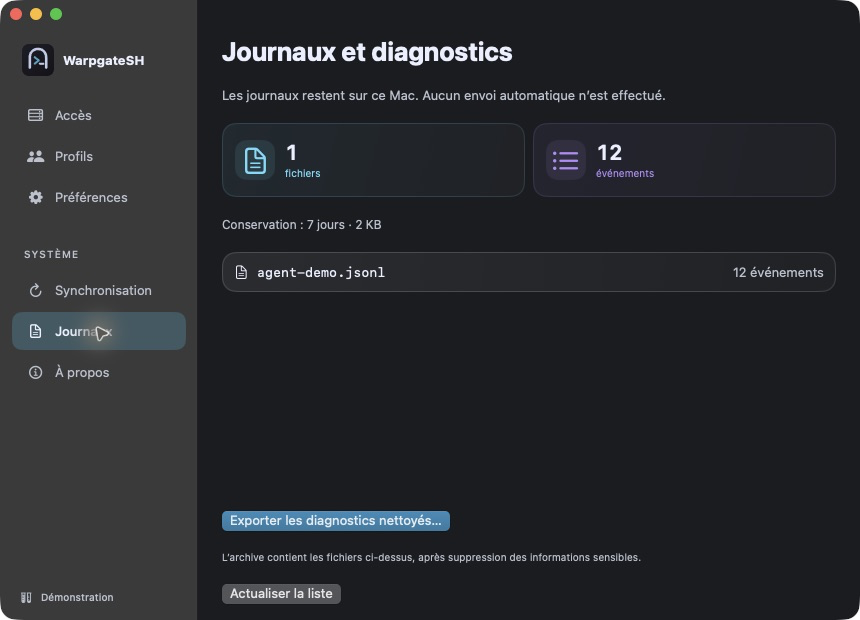
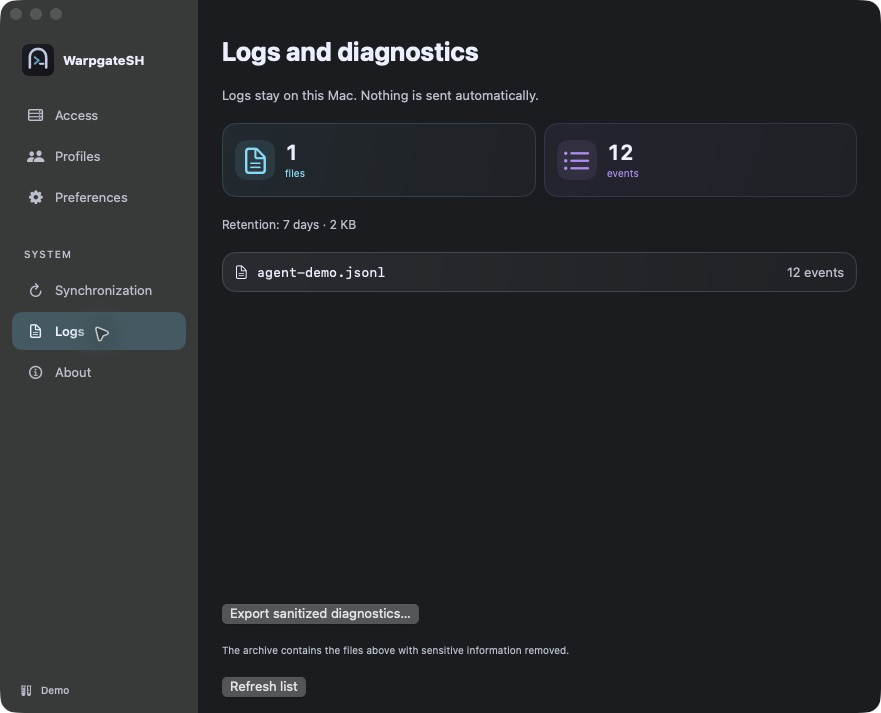
chore: prepare v0.1.19 with refreshed English screenshots and guides

diff --git a/apps/warpgatesh-site/public/index.html b/apps/warpgatesh-site/public/index.html
@@ -177,15 +177,15 @@
           <p class="fine">
             Close the window. The background agent keeps working.
           </p>
-          <p class="preview-note">The native SwiftUI companion is included in v0.1.18 and later.</p>
+          <p class="preview-note">The native SwiftUI companion is included in v0.1.18 and later. Version 0.1.19 adds languages, themes and desktop notifications.</p>
           <a class="inline-link" href="docs/desktop-app.html">Explore the native companion <span aria-hidden="true">→</span></a>
         </div>
         <figure class="companion-figure">
           <a class="screenshot-link" href="assets/swiftui/access.png" aria-label="View the full SwiftUI Access screenshot">
-            <img class="app-screenshot" src="assets/swiftui/access.png" width="860" height="620" loading="lazy" alt="Running WarpgateSH SwiftUI app with sidebar, synchronization cards, search and fictional SSH targets" />
+            <img class="app-screenshot" src="assets/swiftui/access.png" width="881" height="713" loading="lazy" alt="Running WarpgateSH SwiftUI app with sidebar, synchronization cards, search and fictional SSH targets" />
           </a>
           <figcaption class="fine">
-            WarpgateSH v0.1.18 · Running app, fictional demo data.<br />
+            WarpgateSH v0.1.19 · Running app, fictional demo data.<br />
             Native SwiftUI interface for macOS 13 and later.
           </figcaption>
         </figure>
@@ -193,27 +193,35 @@
       <section class="screenshot-section wrap" aria-labelledby="screenshots-title">
         <p class="eyebrow">Inside the native companion</p>
         <h2 id="screenshots-title">A place for every<br />everyday action.</h2>
-        <p class="screenshot-intro">Actual captures from the running macOS app in demo mode. All data is fictional; labels are currently in French. Select an image to view it at full size.</p>
+        <p class="screenshot-intro">Actual captures from the running macOS app in demo mode. All data is fictional; the interface supports English and French. Select an image to view it at full size.</p>
         <div class="screenshot-grid">
           <figure>
-            <a class="screenshot-link" href="assets/swiftui/profiles.png" aria-label="View the full Profiles screenshot"><img class="app-screenshot" src="assets/swiftui/profiles.png" width="860" height="620" loading="lazy" alt="WarpgateSH SwiftUI Profiles screen, captured in demo mode with fictional data" /></a>
+            <a class="screenshot-link" href="assets/swiftui/profiles.png" aria-label="View the full Profiles screenshot"><img class="app-screenshot" src="assets/swiftui/profiles.png" width="881" height="713" loading="lazy" alt="WarpgateSH SwiftUI Profiles screen, captured in demo mode with fictional data" /></a>
             <figcaption><h3>Profiles</h3><p>Enroll a profile, verify SSH fingerprints and manage personal access.</p></figcaption>
           </figure>
           <figure>
-            <a class="screenshot-link" href="assets/swiftui/preferences.png" aria-label="View the full Preferences screenshot"><img class="app-screenshot" src="assets/swiftui/preferences.png" width="860" height="620" loading="lazy" alt="WarpgateSH SwiftUI Preferences screen, captured in demo mode with fictional data" /></a>
-            <figcaption><h3>Preferences</h3><p>Choose the sync interval, default profile and terminal integration.</p></figcaption>
+            <a class="screenshot-link" href="assets/swiftui/preferences.png" aria-label="View the full Preferences screenshot"><img class="app-screenshot" src="assets/swiftui/preferences.png" width="881" height="713" loading="lazy" alt="WarpgateSH SwiftUI Preferences screen, captured in demo mode with fictional data" /></a>
+            <figcaption><h3>Preferences</h3><p>Choose your language, appearance and desktop notifications.</p></figcaption>
           </figure>
           <figure>
-            <a class="screenshot-link" href="assets/swiftui/synchronization.png" aria-label="View the full Synchronization screenshot"><img class="app-screenshot" src="assets/swiftui/synchronization.png" width="860" height="620" loading="lazy" alt="WarpgateSH SwiftUI Synchronization screen, captured in demo mode with fictional data" /></a>
+            <a class="screenshot-link" href="assets/swiftui/synchronization.png" aria-label="View the full Synchronization screenshot"><img class="app-screenshot" src="assets/swiftui/synchronization.png" width="881" height="713" loading="lazy" alt="WarpgateSH SwiftUI Synchronization screen, captured in demo mode with fictional data" /></a>
             <figcaption><h3>Synchronization</h3><p>Inspect the agent, the last snapshot and synchronization alerts.</p></figcaption>
           </figure>
           <figure>
-            <a class="screenshot-link" href="assets/swiftui/logs.png" aria-label="View the full Logs and diagnostics screenshot"><img class="app-screenshot" src="assets/swiftui/logs.png" width="860" height="620" loading="lazy" alt="WarpgateSH SwiftUI Logs and diagnostics screen, captured in demo mode with fictional data" /></a>
+            <a class="screenshot-link" href="assets/swiftui/logs.png" aria-label="View the full Logs and diagnostics screenshot"><img class="app-screenshot" src="assets/swiftui/logs.png" width="881" height="713" loading="lazy" alt="WarpgateSH SwiftUI Logs and diagnostics screen, captured in demo mode with fictional data" /></a>
             <figcaption><h3>Logs and diagnostics</h3><p>Review local files before exporting sanitized diagnostics.</p></figcaption>
           </figure>
           <figure>
-            <a class="screenshot-link" href="assets/swiftui/about.png" aria-label="View the full About and updates screenshot"><img class="app-screenshot" src="assets/swiftui/about.png" width="860" height="620" loading="lazy" alt="WarpgateSH SwiftUI About and updates screen, captured in demo mode with fictional data" /></a>
+            <a class="screenshot-link" href="assets/swiftui/about.png" aria-label="View the full About and updates screenshot"><img class="app-screenshot" src="assets/swiftui/about.png" width="881" height="713" loading="lazy" alt="WarpgateSH SwiftUI About and updates screen, captured in demo mode with fictional data" /></a>
             <figcaption><h3>About and updates</h3><p>Check versions and apply signed updates after confirmation.</p></figcaption>
+          </figure>
+          <figure>
+            <a class="screenshot-link" href="assets/swiftui/preferences-light.png" aria-label="View the light appearance"><img class="app-screenshot" src="assets/swiftui/preferences-light.png" width="881" height="713" loading="lazy" alt="Light appearance of WarpgateSH v0.1.19, real app in demo mode" /></a>
+            <figcaption><h3>Light appearance</h3><p>Choose a theme or follow the appearance of macOS.</p></figcaption>
+          </figure>
+          <figure>
+            <a class="screenshot-link" href="assets/swiftui/preferences-black.png" aria-label="View the black appearance"><img class="app-screenshot" src="assets/swiftui/preferences-black.png" width="881" height="713" loading="lazy" alt="Black appearance of WarpgateSH v0.1.19, real app in demo mode" /></a>
+            <figcaption><h3>Black appearance</h3><p>Choose a theme or follow the appearance of macOS.</p></figcaption>
           </figure>
         </div>
       </section>

diff --git a/apps/warpgatesh-macos/Sources/WarpgateSH/Models/SyncAge.swift b/apps/warpgatesh-macos/Sources/WarpgateSH/Models/SyncAge.swift
@@ -1,11 +1,18 @@
 import Foundation
 
 enum SyncAge {
-  static func label(_ seconds: UInt64?) -> String {
-    guard let seconds else { return L10n.text("Jamais") }
-    if seconds < 60 { return L10n.text("À l’instant") }
-    if seconds < 3600 { return L10n.text("Il y a %llu min", seconds / 60) }
-    if seconds < 86400 { return L10n.text("Il y a %llu h", seconds / 3600) }
-    return L10n.text("Il y a %llu j", seconds / 86400)
+  static func label(_ seconds: UInt64?, language: DisplayLanguage = L10n.language) -> String {
+    func text(_ key: String, _ arguments: CVarArg...) -> String {
+      let translated = L10n.translation(key, language: language)
+      return arguments.isEmpty
+        ? translated
+        : String(
+          format: translated, locale: Locale(identifier: language.code), arguments: arguments)
+    }
+    guard let seconds else { return text("Jamais") }
+    if seconds < 60 { return text("À l’instant") }
+    if seconds < 3600 { return text("Il y a %llu min", seconds / 60) }
+    if seconds < 86400 { return text("Il y a %llu h", seconds / 3600) }
+    return text("Il y a %llu j", seconds / 86400)
   }
 }

diff --git a/apps/warpgatesh-macos/Sources/WarpgateSH/Bridge/DemoBridge.swift b/apps/warpgatesh-macos/Sources/WarpgateSH/Bridge/DemoBridge.swift
@@ -18,7 +18,7 @@ final class DemoBridge: CompanionTransport {
     preferences: .init(
       syncIntervalSeconds: 300, launchCompanionAtLogin: false, defaultProfile: "homelab"),
     terminalIntegration: .init(status: "missing", path: "/usr/local/bin/warpgatesh"),
-    update: .init(phase: "idle", channel: "unsupported", currentVersion: "0.1.18"), alerts: [])
+    update: .init(phase: "idle", channel: "unsupported", currentVersion: "0.1.19"), alerts: [])
 
   func request(_ command: String, args: [String: JSONValue]) async throws -> JSONValue {
     switch command {

diff --git a/apps/warpgatesh-macos/Tests/WarpgateSHTests/ContractTests.swift b/apps/warpgatesh-macos/Tests/WarpgateSHTests/ContractTests.swift
@@ -21,8 +21,9 @@ struct ContractTests {
     #expect(demo.state.profiles.count == 1)
   }
   @Test func snapshotAgeIsHonestWithoutFirstSync() {
-    #expect(SyncAge.label(nil) == "Jamais")
-    #expect(SyncAge.label(180) == "Il y a 3 min")
-    #expect(SyncAge.label(86400) == "Il y a 1 j")
+    #expect(SyncAge.label(nil, language: .french) == "Jamais")
+    #expect(SyncAge.label(180, language: .french) == "Il y a 3 min")
+    #expect(SyncAge.label(86400, language: .french) == "Il y a 1 j")
+    #expect(SyncAge.label(180, language: .english) == "3 min ago")
   }
 }

diff --git a/docs/desktop-app.md b/docs/desktop-app.md
@@ -7,14 +7,15 @@ the synchronization agent and OpenSSH access work independently of its window.
 **Availability:** the native interface is available in **v0.1.18 and later**.
 The screenshots are actual captures of the running SwiftUI application in its
 isolated demo mode. Every profile, target, counter and diagnostic entry shown
-is fictional. The interface currently uses French labels.
+is fictional. These v0.1.19 captures use English labels. From v0.1.19 the
+interface supports French, English and automatic language selection.
 
 ## Access
 
 ![SwiftUI Access screen with demo targets, profile count and search](assets/swiftui/access.png)
 
 Check the agent state, synchronized target count, configured profiles, and the
-age of the last successful synchronization. Use **Synchroniser maintenant**
+age of the last successful synchronization. Use **Synchronize now**
 for an immediate sync, or **⌘K** to search by name, alias or profile. Selecting
 a target in the connected app opens its qualified alias in the terminal.
 The last successful snapshot remains available if a later synchronization fails.
@@ -23,35 +24,50 @@ The last successful snapshot remains available if a later synchronization fails.
 
 ![SwiftUI Profiles screen with a fictional homelab profile](assets/swiftui/profiles.png)
 
-Use **Ajouter un profil**, enter the local name, instance URL and personal API
-token, then select **Vérifier le profil**. Compare the displayed SSH host-key
-fingerprints with a trusted source. Enable **J’ai vérifié ces empreintes par un
-canal de confiance** and select **Enregistrer** only after they match.
+Use **Add a profile**, enter the local name, instance URL and personal API
+token, then select **Check profile**. Compare the displayed SSH host-key
+fingerprints with a trusted source. Enable **I verified these fingerprints through a trusted channel** and select **Save** only after they match.
 
 **Options SSH** lets you override a detected hostname or port. If the keys change
 between inspection and saving, enrollment is refused and must be verified again.
-Existing profiles offer **Renouveler le jeton**, **Définir par défaut** and a
-confirmed **Supprimer** action. Tokens stay in the platform secret store.
+Existing profiles offer **Renew token**, **Set as default** and a
+confirmed **Remove** action. Tokens stay in the platform secret store.
 
 ## Preferences
 
 ![SwiftUI Preferences screen with synchronization and terminal settings](assets/swiftui/preferences.png)
 
-Choose a synchronization interval, a default profile, and whether the companion
-opens at login. The agent is independent of that preference. Under **Commande
-du terminal**, **Installer la commande warpgatesh** exposes the bundled CLI.
-Existing conflicting commands are preserved. **Enregistrer les préférences**
-applies changed settings through the agent.
+From **v0.1.19**, preferences have three tabs:
 
-The built-in uninstaller remains under **Application**. It requires typing
-`DÉSINSTALLER`; removal of profiles, tokens and managed SSH data is optional.
+- **General**: choose Automatic, Français or English; select Warpgate, Light,
+  Black or System appearance; configure [desktop notifications](#notifications).
+  These local preferences save immediately. System follows macOS light/dark mode.
+- **Synchronization**: set the synchronization interval and default profile.
+- **System**: open at login, install the terminal command, read its guide or
+  uninstall the application. Existing conflicting commands are preserved.
+
+Select **Save preferences** to apply changes under Synchronization or System.
+The independent agent continues working when the companion window is closed.
+
+![Synchronization preferences in the running app](assets/swiftui/preferences-sync.png)
+
+![System preferences and terminal command guide in the running app](assets/swiftui/preferences-system.png)
+
+### Light and Black appearances
+
+The original **Warpgate** theme remains the default. Light and Black provide
+explicit alternatives; System switches between them with the macOS appearance.
+
+![Light appearance with desktop notification controls](assets/swiftui/preferences-light.png)
+
+![Black appearance with desktop notification controls](assets/swiftui/preferences-black.png)
 
 ## Synchronization
 
 ![SwiftUI Synchronization screen with demo agent state and last snapshot](assets/swiftui/synchronization.png)
 
 Inspect the agent state, configured interval, last successful snapshot and
-synchronization alerts. Follow a profile-related alert to **Profils** when a
+synchronization alerts. Follow a profile-related alert to **Profiles** when a
 token or SSH key requires attention. Closing the window leaves the agent running.
 
 ## Logs
@@ -59,7 +75,7 @@ token or SSH key requires attention. Closing the window leaves the agent running
 ![SwiftUI Logs screen showing fictional diagnostic file totals before export](assets/swiftui/logs.png)
 
 Review the local file list, event counts, total size and seven-day retention
-before selecting **Exporter les diagnostics nettoyés…**. Export creates a local
+before selecting **Export sanitized diagnostics…**. Export creates a local
 sanitized ZIP; it never uploads anything. Review the archive before sharing it.
 
 ## About
@@ -67,10 +83,10 @@ sanitized ZIP; it never uploads anything. Review the archive before sharing it.
 ![SwiftUI About screen with version and update controls](assets/swiftui/about.png)
 
 Check the installed version and update status. DMG installations check for new
-releases every six hours; **Vérifier les mises à jour** requests a manual check.
+releases every six hours; **Check for updates** requests a manual check.
 An available signed update requires confirmation before replacing the app, CLI
 and agent together. Homebrew installations instead show the upgrade command.
-The version shown corresponds to the v0.1.18 source build used for these captures.
+The version shown corresponds to the v0.1.19 source build used for these captures.
 
 ## Menu bar, keyboard and accessibility
 
@@ -90,9 +106,7 @@ DMG remains available from the [latest release](https://github.com/M0okz/warpgat
 
 ## Notifications
 
-**Availability:** these settings are part of the upcoming release after v0.1.18.
-They are available in the development preview; the v0.1.18 screenshots above
-show the earlier preferences layout.
+**Availability:** desktop notifications are included from **v0.1.19**.
 
 Open **Preferences → General → Desktop notifications** to enable macOS alerts.
 macOS asks for permission the first time. If permission is denied, use **macOS

diff --git a/docs/assets/swiftui/README.md b/docs/assets/swiftui/README.md
@@ -4,10 +4,10 @@ Captured on 30 October 2026 from the running native macOS application in
 `apps/warpgatesh-macos`, using its `--demo` mode and native app screenshot API.
 These are application screenshots, not rendered HTML or generated mockups.
 
-The six images show the approved interface and real native controls. Every
+The ten images show the approved interface and real native controls. Every
 profile, hostname, URL, counter and diagnostic entry comes from fictional demo
-fixtures; no live infrastructure data or tokens are included. The French UI
-labels are captured as displayed. The screenshots correspond to the v0.1.18 source build. The native SwiftUI
+fixtures; no live infrastructure data or tokens are included. The English UI
+labels are captured as displayed. The screenshots correspond to the v0.1.19 source build. The native SwiftUI
 interface is distributed from v0.1.18.
 
 `manifest.json` records dimensions and SHA-256 checksums. The project README,
@@ -15,6 +15,9 @@ interface is distributed from v0.1.18.
 them to `dist/assets/swiftui/`; do not maintain a second set of screenshots.
 
 To refresh, build the native preview, quit an existing connected preview, launch
-with `--demo`, verify the Démonstration badge and `example.com` profile, and
-capture each section at the same 860 × 620 point window size. Confirm that no
+with `--demo`, verify the Demo badge and `example.com` profile, and
+capture each section at the same 881 × 713 point window size. Confirm that no
 live profiles, private hostnames or personal paths appear before publication.
+
+The preferences captures include General, Synchronization, System and the Light
+and Black variants. The original Warpgate theme is used for the other screens.

diff --git a/docs/installation.md b/docs/installation.md
@@ -6,6 +6,7 @@ Macs. The public installation method is a signed and notarized universal DMG.
 ## Native macOS interface
 
 From **v0.1.18**, the companion uses SwiftUI with a sidebar and six sections.
+From v0.1.19, French/English, appearance and notification settings are available.
 See the [native companion guide and screenshots](desktop-app.md). Earlier
 versions use the previous interface; update before following the new labels.
 
@@ -34,9 +35,9 @@ of the graphical window and keeps synchronizing after the window is closed.
 The app already generates standard OpenSSH aliases, so `ssh <target>` works
 without installing an extra SSH client. To also use the `warpgatesh` command:
 
-1. Open **WarpgateSH → Préférences**.
-2. Find **Commande du terminal**.
-3. Select **Installer la commande warpgatesh** and approve the macOS administrator prompt.
+1. Open **WarpgateSH → Preferences → System**.
+2. Find **Terminal command**.
+3. Select **Install the warpgatesh command** and approve the macOS administrator prompt.
 
 The app creates `/usr/local/bin/warpgatesh` as a link to the signed executable
 inside the application bundle. It does not modify your shell configuration or
@@ -58,7 +59,7 @@ signed DMG and do not rely on `brew install --cask warpgatesh`.
 ## Updates
 
 DMG installations check for new GitHub releases every six hours. You can
-also check manually from **À propos → Vérifier les mises à jour**. WarpgateSH downloads
+also check manually from **About → Check for updates**. WarpgateSH downloads
 an update only after your confirmation and verifies its updater signature
 before replacing the companion, CLI, and agent together.
 

diff --git a/docs/uninstall.md b/docs/uninstall.md
@@ -3,16 +3,15 @@
 Use the built-in uninstaller so the app can distinguish its own files from your
 personal SSH configuration.
 
-These labels apply to **v0.1.18 and later**. See the [native preferences
-screenshots](desktop-app.md#preferences). Earlier versions use shorter labels
-in the same Preferences section.
+These English labels apply to **v0.1.19 and later**; French remains available. See the [native preferences
+screenshots](desktop-app.md#preferences). Earlier versions use the original French labels.
 
 ## Uninstall and keep local data
 
-1. Open **WarpgateSH → Préférences**.
-2. Under **Application**, select **Désinstaller WarpgateSH…**.
-3. Leave **Supprimer aussi les profils, jetons et fichiers SSH gérés** unchecked.
-4. Enter `DÉSINSTALLER` and continue.
+1. Open **WarpgateSH → Preferences → System**.
+2. Under **Application**, select **Uninstall WarpgateSH…**.
+3. Leave **Also remove profiles, tokens and managed SSH files** unchecked.
+4. Enter `UNINSTALL` and continue (`DÉSINSTALLER` when using the French interface).
 
 WarpgateSH stops and unregisters the background agent, removes the CLI link
 owned by the app, and moves the application to the Trash. Profiles, Keychain
@@ -21,7 +20,7 @@ kept for a later reinstall.
 
 ## Uninstall and delete all WarpgateSH data
 
-Follow the same steps and enable **Supprimer aussi les profils, jetons et fichiers SSH gérés** before confirming. In
+Follow the same steps and enable **Also remove profiles, tokens and managed SSH files** before confirming. In
 addition to uninstalling the app, WarpgateSH removes:
 
 - its personal API tokens from the macOS Keychain;

diff --git a/docs/troubleshooting.md b/docs/troubleshooting.md
@@ -8,7 +8,7 @@ warpgatesh doctor
 warpgatesh agent status
 ```
 
-If the CLI is missing, open **Préférences → Intégration terminal** in the app
+If the CLI is missing, open **Preferences → System → Terminal command** in the app
 and install it first.
 
 ## The background agent is not running
@@ -117,7 +117,7 @@ host-key, or compatibility error, then request another synchronization.
 
 ## The application does not reopen after an update
 
-Open **WarpgateSH** from Applications and check the version in **Préférences**.
+Open **WarpgateSH** from Applications and check the version in **About**.
 The version that was running performs the relaunch, so an older version can
 still require a manual reopen when first updating to a release containing the
 relaunch fix.
@@ -137,9 +137,9 @@ warpgatesh diagnostics preview
 warpgatesh diagnostics export
 ```
 
-In **v0.1.18 and later**, open [**Journaux**](desktop-app.md#logs) to review the
+In **v0.1.18 and later**, open [**Logs**](desktop-app.md#logs) to review the
 local files and select **Exporter les diagnostics nettoyés…**. Earlier versions
-provide diagnostics under **Préférences → Diagnostics locaux**. Logs are retained for seven days, sanitized, and never uploaded
+provide diagnostics under **Preferences → Diagnostics locaux**. Logs are retained for seven days, sanitized, and never uploaded
 automatically. Review the ZIP before attaching it to a GitHub issue.
 
 When reporting a problem, include the WarpgateSH version, macOS version,

diff --git a/docs/getting-started.md b/docs/getting-started.md
@@ -24,13 +24,13 @@ writes it to the generated SSH configuration.
 
 ### With the graphical companion
 
-These labels apply to **v0.1.18 and later**. See the [native profile walkthrough
+These English labels apply to **v0.1.19 and later**; French remains available. See the [native profile walkthrough
 and screenshots](desktop-app.md#profiles).
 
-1. Open **Profils** and select **Ajouter un profil**.
+1. Open **Profiles** and select **Add a profile**.
 2. Enter a local name using lowercase letters, digits and hyphens, such as `production`.
 3. Enter the Warpgate root URL and your personal API token.
-4. Select **Vérifier le profil**.
+4. Select **Check profile**.
 5. Compare the displayed SSH host-key fingerprints with a trusted source.
 6. Enable **J’ai vérifié ces empreintes par un canal de confiance**, then select **Enregistrer**.
 

diff --git a/CHANGELOG.md b/CHANGELOG.md
@@ -4,6 +4,8 @@ Toutes les évolutions notables de WarpgateSH sont documentées ici.
 
 ## Non publié
 
+## 0.1.19 — 2026-10-30
+
 - Les préférences sont réparties en Général, Synchronisation et Système. La langue
   peut suivre macOS ou être réglée en français ou en anglais ; les thèmes Warpgate,
   Clair, Noir et Système s’appliquent immédiatement et sont conservés sur ce Mac.

diff --git a/README.md b/README.md
@@ -21,7 +21,7 @@ tools.
 
 ![WarpgateSH SwiftUI access screen](docs/assets/swiftui/access.png)
 
-*Native SwiftUI companion, available from v0.1.18. Actual capture of the running
+*WarpgateSH v0.1.19, English interface. Native SwiftUI companion available from v0.1.18. Actual capture of the running
 macOS app using fictional demo data.*
 
 [Explore the six native screens](docs/desktop-app.md) ·
